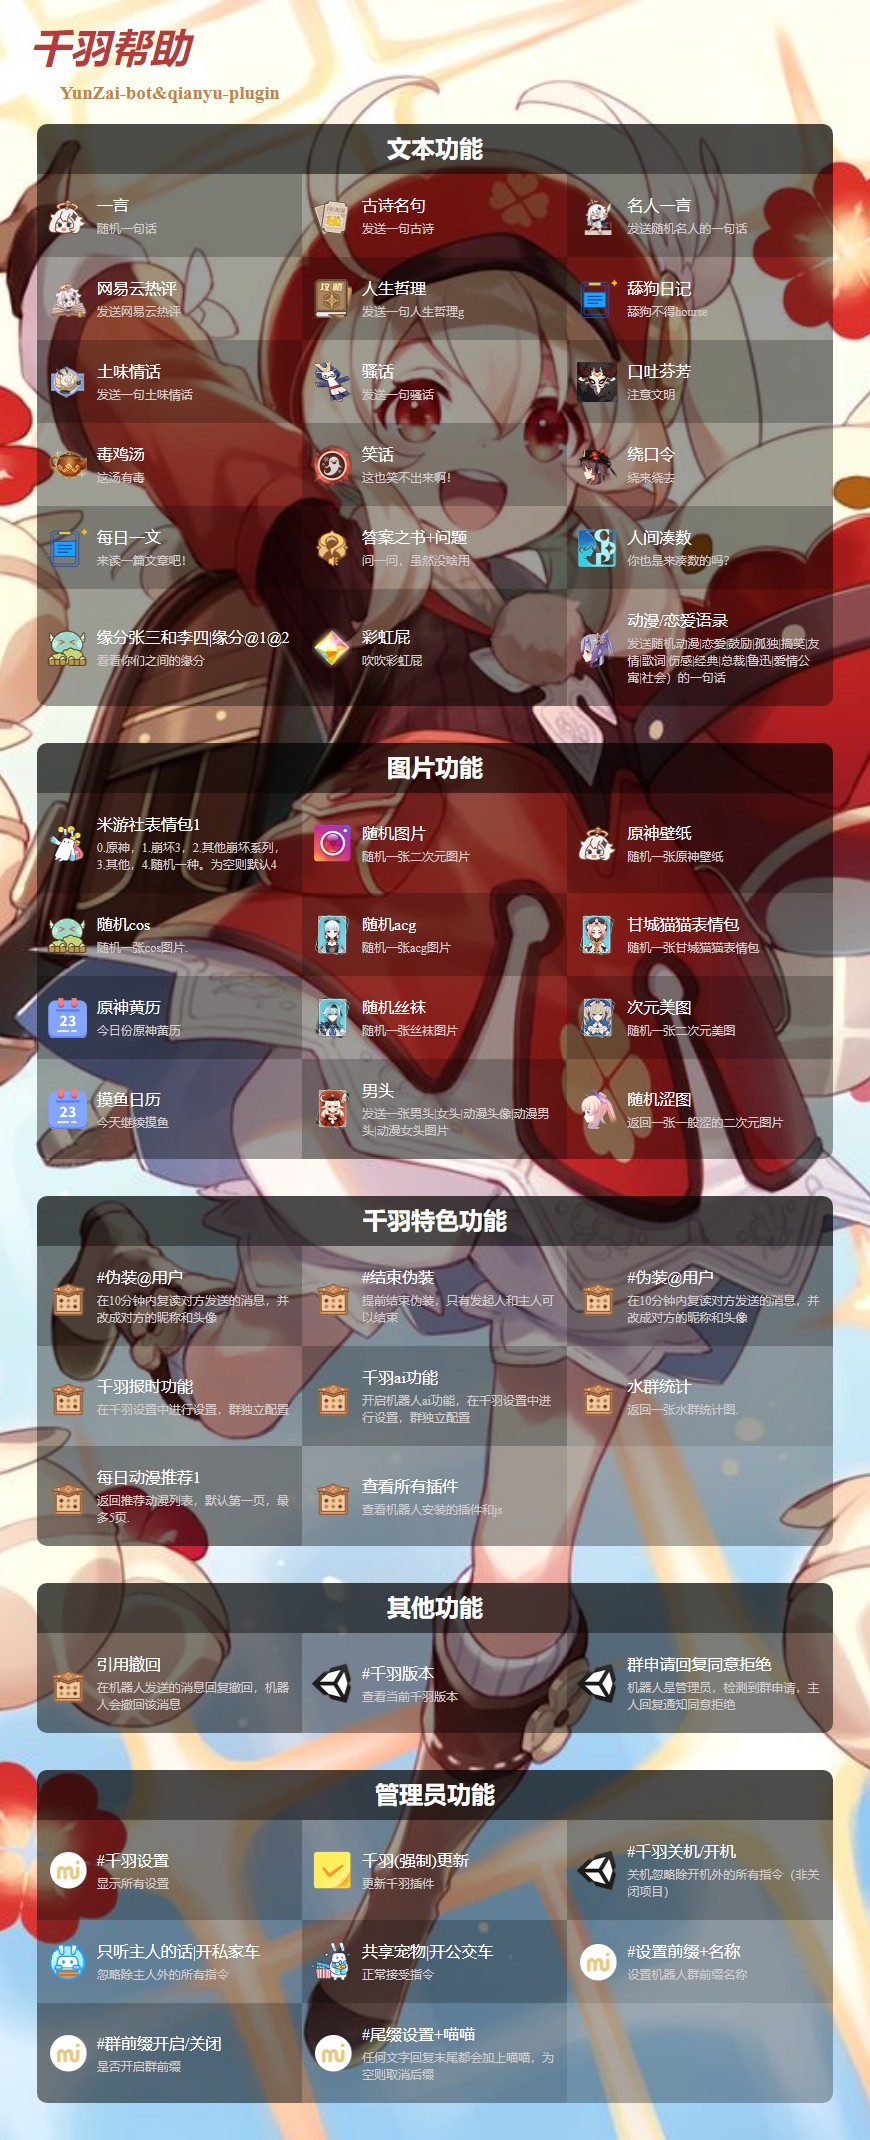
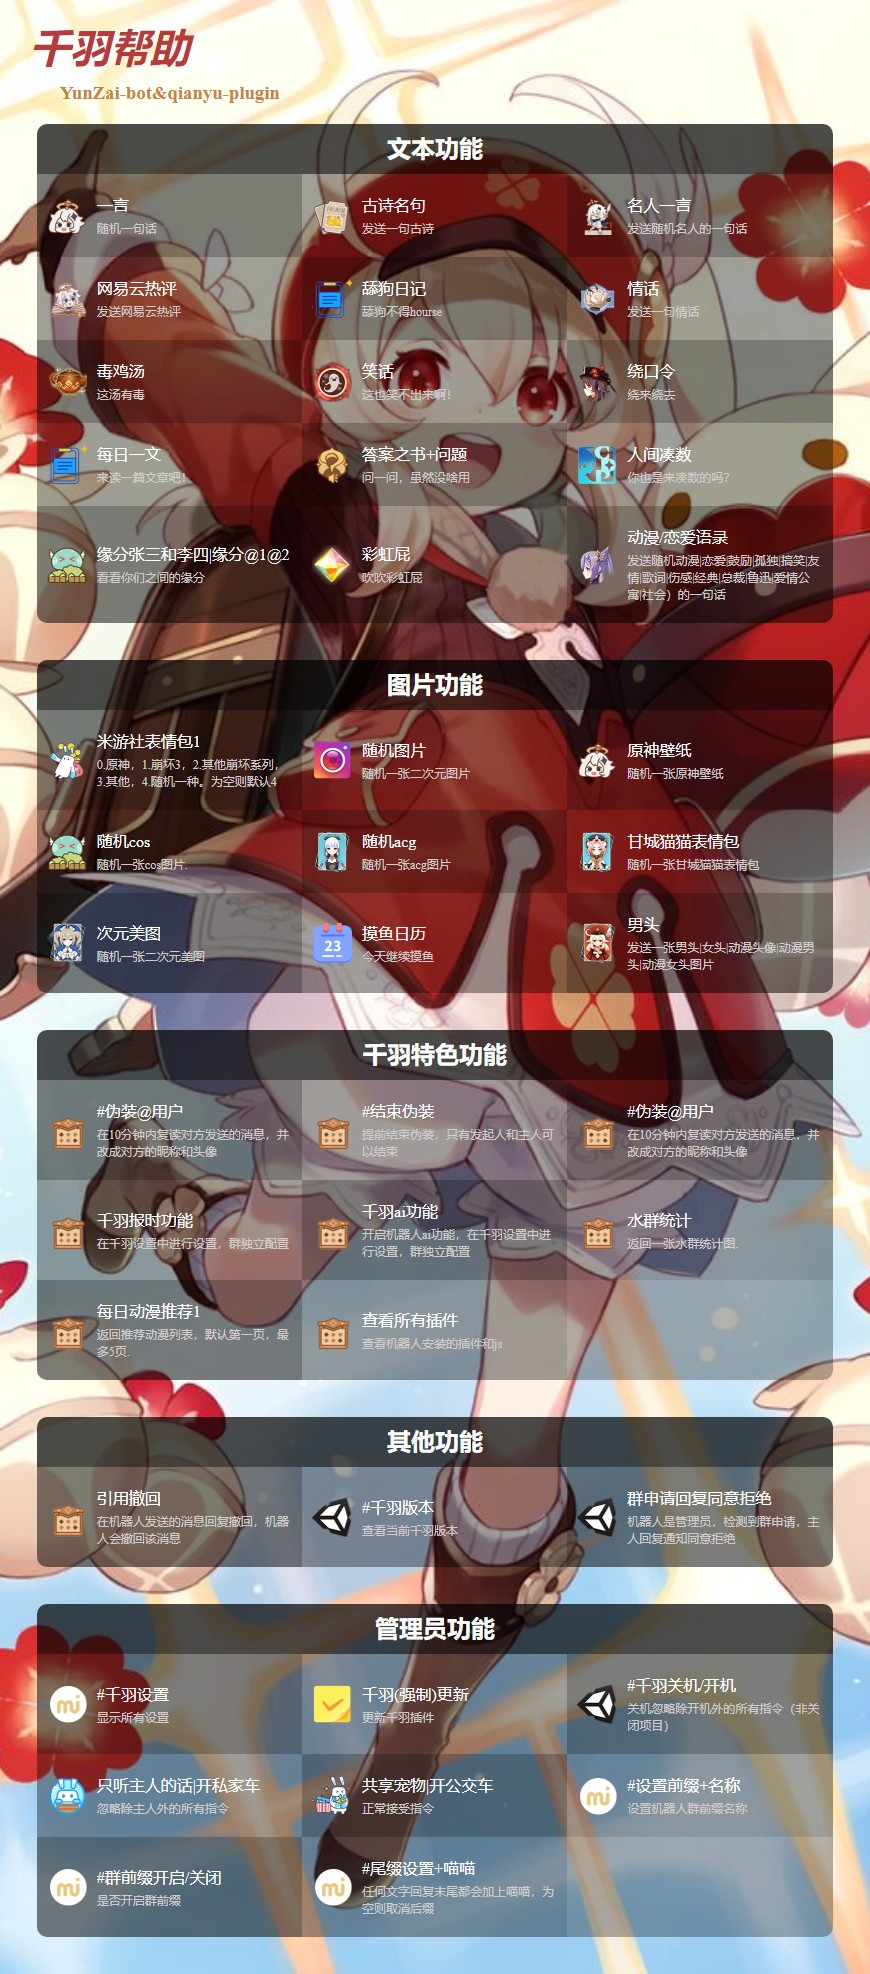
修复删除一些失效api

diff --git a/lib/api.js b/lib/api.js
@@ -25,17 +25,17 @@ export class Api {
         textlist.forEach(async element => {
             if (element.name == name) {
                 if (element.data == 1) {
-                    suc({ res: element.url, isurl: true })
+                    suc({ data: element.url, isurl: true })
                 }
                 else if (element.data != 1) {
                     await geturldata({ url: element.url, data: element.data, parms: parms }, (res) => {
                         if (typeof res == "string") {
-                            res = { res: res.data, isurl: true }
+                            res = { data: res.data, isurl: true }
                         }
                         if (element.islist) {
-                            res = { res: res.data, islist: true }
+                            res = { data: res.data, islist: true }
                         }
-                        suc(res.data)
+                        suc(res)
                     })
                 }
             }

diff --git a/apps/api/imageApi.js b/apps/api/imageApi.js
@@ -48,18 +48,18 @@ async function apiimg(e) {
     })
     await api.getImage(str, async (res) => {
         if (res.isurl) {
-            await this.reply(segment.image(res.res))
+            await this.reply(segment.image(res.data))
         } else {
             if (res.islist) {
                 let mes = []
-                res.res.forEach((item, index) => {
-                    if (res.res.length > 5 ? index < 5 : index < res.res.length) {
+                res.data.forEach((item, index) => {
+                    if (res.data.length > 5 ? index < 5 : index < res.data.length) {
                         mes.push(segment.image(item))
                     }
                 })
                 return this.reply(await this.makeGroupMsg(e.msg, mes))
             }
-            this.reply(segment.image(res))
+            this.reply(segment.image(res.data))
         }
     }, parm)
 }

diff --git a/apps/api/textApi.js b/apps/api/textApi.js
@@ -100,10 +100,12 @@ async function yf(e) {
         name1 = namelist[0]
         name2 = namelist[1]
     }
-    await api.getapi({ url: `https://xiaobai.klizi.cn/API/other/yf.php?name1=${encodeURI(name1)}&name2=${encodeURI(name2)}`, data: 0 }, (res) => {
+    await api.getapi(`https://xiaobai.klizi.cn/API/other/yf.php?name1=${encodeURI(name1)}&name2=${encodeURI(name2)}`, 0, (res) => {
+        console.log(res);
         if (res.length == 2) {
             return this.reply("只支持中文名称哦,名字里有特殊字符的不行啦~")
         }
+
         this.reply(res)
     })
 

diff --git a/utils/request.js b/utils/request.js
@@ -3,7 +3,6 @@ export async function geturldata(data, suc) {
     if (data.parms) {
         data.url += data.parms
     }
-    console.log(data.url);
     try {
         let response = await fetch(data.url, {
             headers: data.headers

diff --git a/version.md b/version.md
@@ -1,4 +1,4 @@
-## 1.4.2
+## 1.4.3
 
 - 新增版号，版号区分版本
   - 千羽插件船新版本
@@ -11,3 +11,4 @@
   - 修复表情回复会一直添加尾缀的问题
 - 新增入群申请指令通过
 - 语音报时支持原神全角色设置
+- 修复删除一些失效 api
